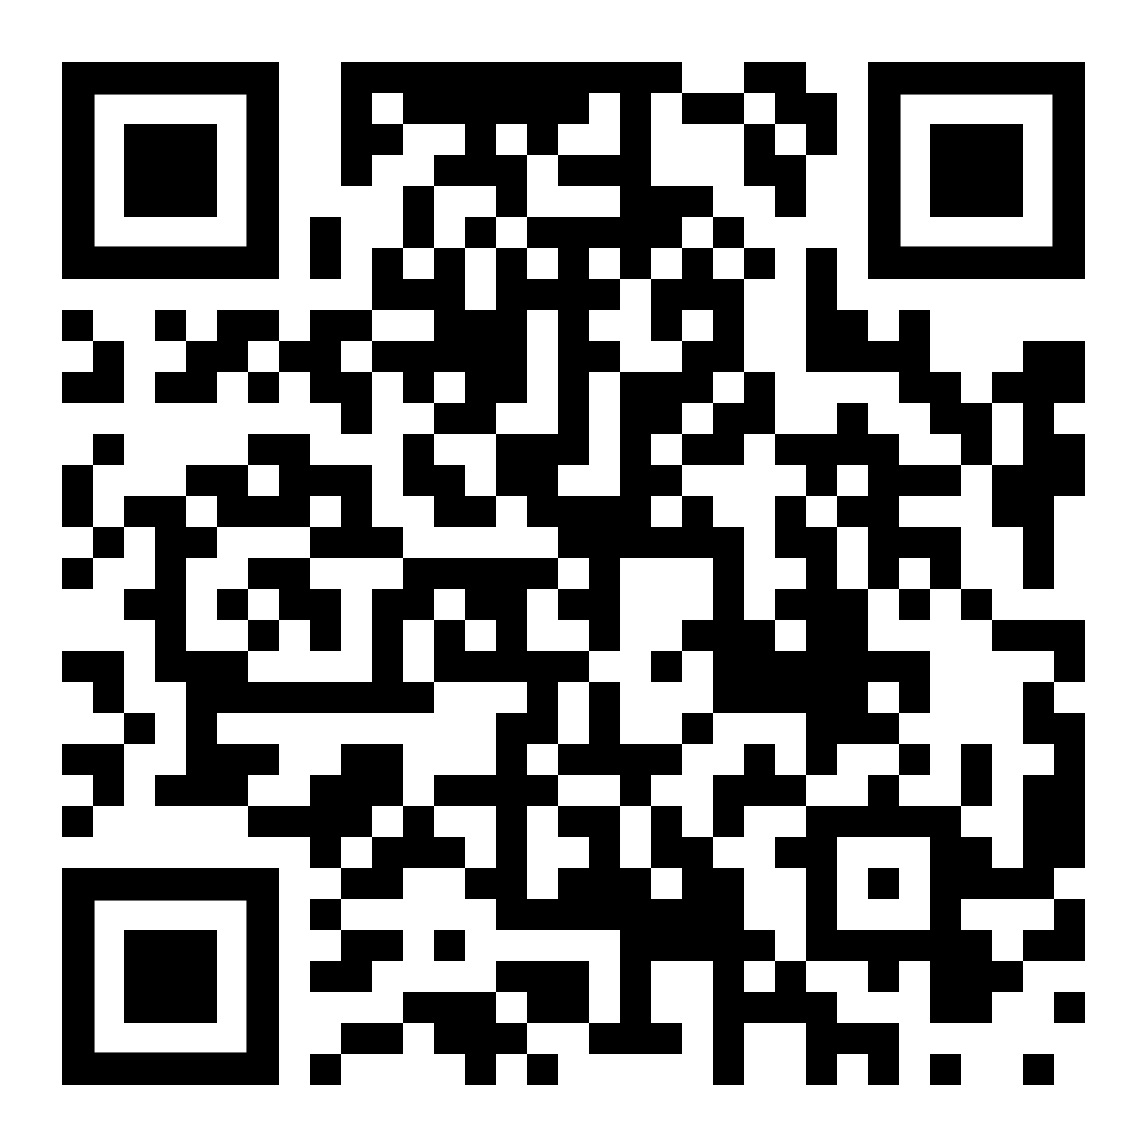
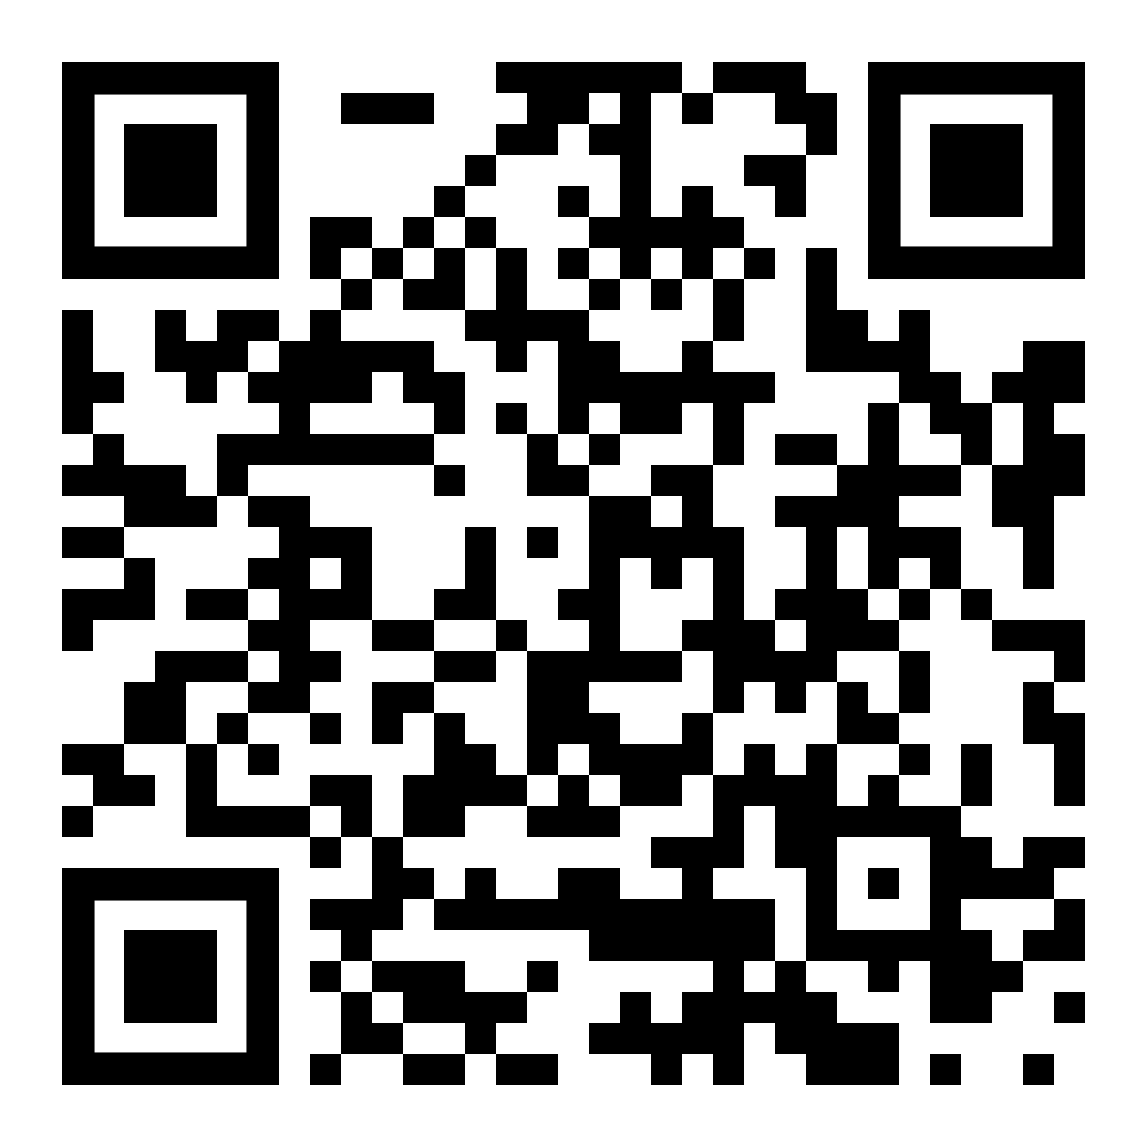
fix domen

diff --git a/core/settings.py b/core/settings.py
@@ -15,7 +15,7 @@ SECRET_KEY = 'django-insecure-!r8v6^wqq&c^!mk4k)+dfg7ui7cl_b8wa1j_j3s)n-#5r_^q4+
 # SECURITY WARNING: don't run with debug turned on in production!
 DEBUG = False
 
-ALLOWED_HOSTS = ['medical-sertification-svv-gouz.onrender.com']
+ALLOWED_HOSTS = ['medical-sertification-svv-gouz-4on6.onrender.com']
 
 
 # Application definition
